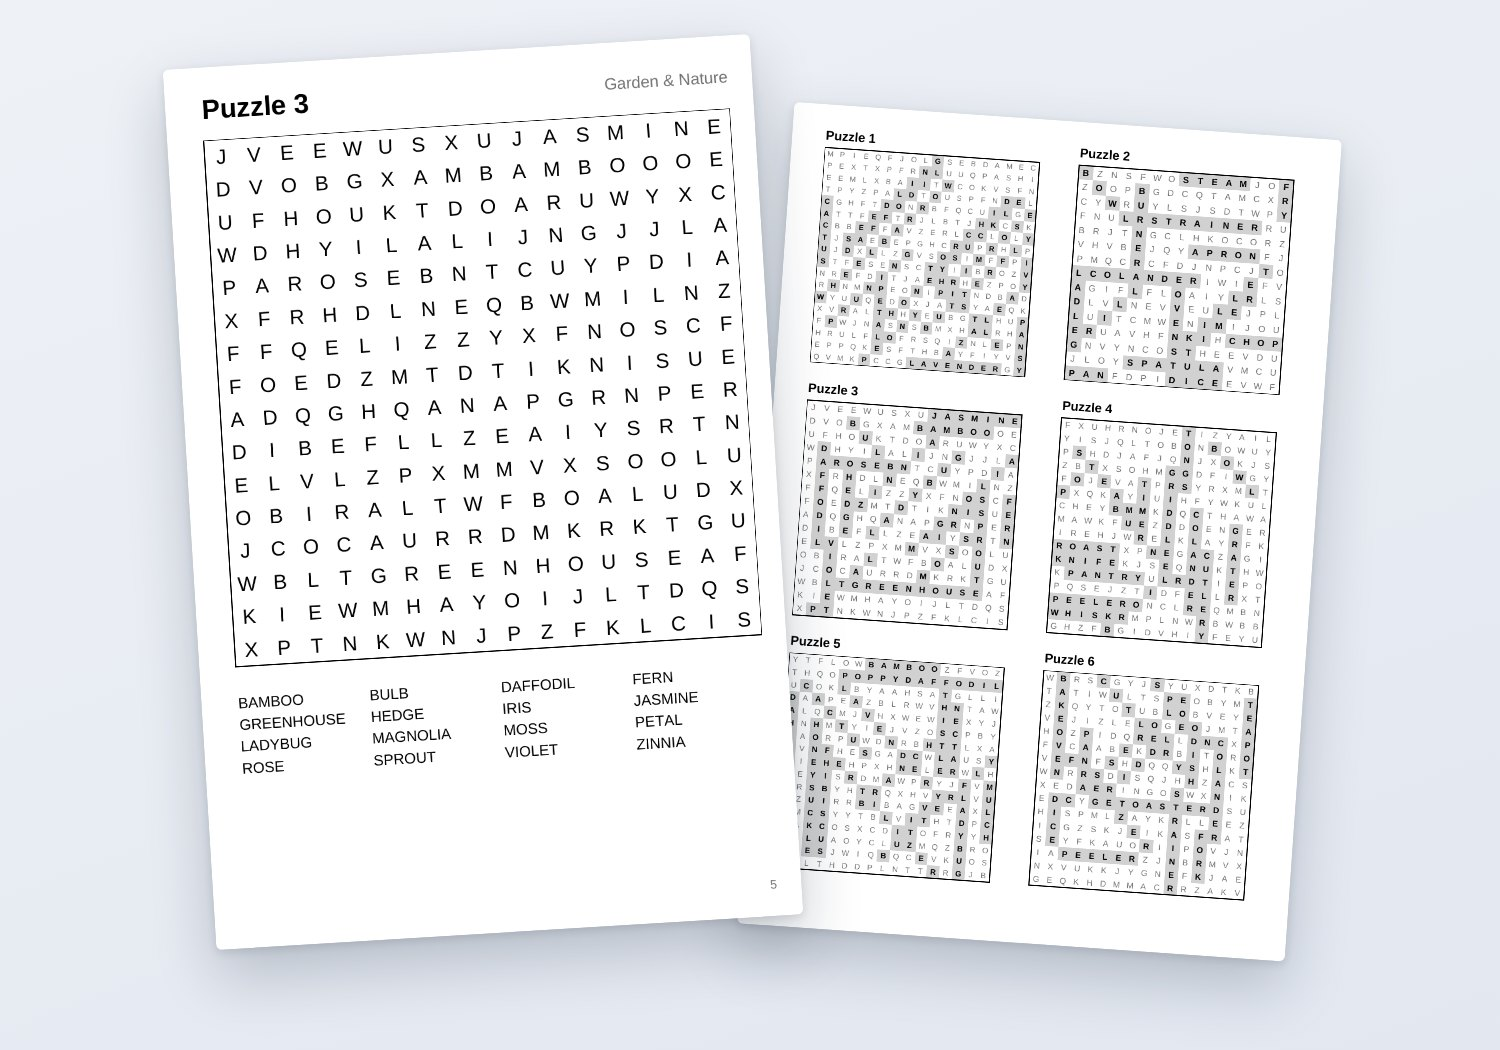
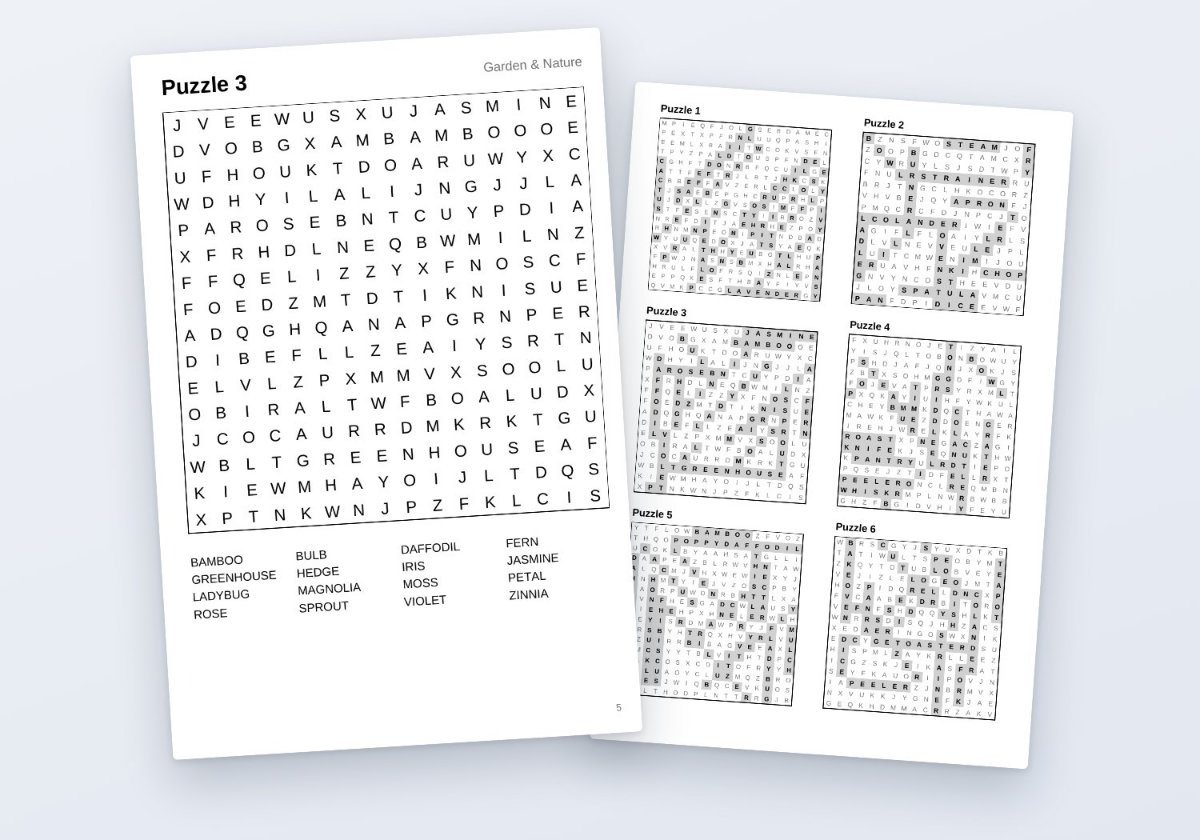
The first five seconds: the hero image was 90% of the page, and the phone first screen was all text
Nobody outside this building has ever run the product, so hardening it further
has no expected value. What matters is the first five seconds on Tuesday.

Measured it on a throttled phone against production, which test/perf.mjs had
probably never been pointed at: 252 KB transferred, of which /hero-book.jpg was
226 KB and 660 ms. Re-encoded at 1200px as WebP (Chromium's canvas, no new
dependency), JPEG kept as the <picture> fallback: 81 KB. Page is now 108 KB and
settles at 1160 ms instead of 1444.

The phone first screen held nothing but text: the header repeated the hero's
first sentence, the lede ran ten lines, the primary button was clipped by the
fold, and the only picture of a real printed page was a screen and a half down
behind eight lines of feature ticks. Strap hidden on phones, lede cut by 45%
with its spine claim moved into the tick list, third button demoted to the
sample links, and the tick list moved below the picture — which changes nothing
on a wide screen and puts proof at 603px on a phone.

test/perf.mjs was not a test: it printed numbers and exited zero. It now has
budgets (200 KB total, 120 KB per asset, 4s to first puzzle) and asserts the
headline, lede, both buttons and the price are whole above a 664px fold with
the book image starting above it.

Claude-Session: https://claude.ai/code/session_01GFKKS7ouagdgAcbLvrifEG

diff --git a/public/index.html b/public/index.html
@@ -52,6 +52,12 @@
        c…"), so rows stack below 420px where the squeeze actually happens. */
     .row { grid-template-columns: 1fr; }
     header .wide-only { display: none; }
+    /* On a phone the first screen is about 630px tall and the header was
+       spending a fifth of it repeating the hero's first sentence. The strap
+       stays in the HTML — it is the page's plain-English summary for a crawler
+       and for a wide screen — but a person holding a phone gets the headline
+       and the button instead. */
+    header p { display: none; }
     header { padding: 14px 16px; }
     .hero { padding: 24px 16px 20px; }
     main { padding: 16px; gap: 16px; }
@@ -112,8 +118,20 @@
 
   /* Hero */
   .hero { background: var(--card); border-bottom: 1px solid var(--line); padding: 40px 24px 32px; }
+  /* Three children — copy, shot, ticks — rather than the ticks living inside
+     the copy. On a wide screen that changes nothing visible (the ticks were
+     already a row under the copy; now they run the full width). On a phone,
+     where the grid collapses to one column, it puts the picture of a real
+     printed page directly under the buttons instead of below eight lines of
+     feature ticks — one flick from the top rather than a screen and a half. */
   .hero-inner { max-width: 1280px; margin: 0 auto; display: grid; grid-template-columns: 1.15fr 1fr; gap: 40px; align-items: center; }
-  @media (max-width: 860px) { .hero-inner { grid-template-columns: 1fr; gap: 24px; } }
+  .hero-copy { grid-column: 1; }
+  .hero-shot { grid-column: 2; }
+  .hero-inner .trust { grid-column: 1 / -1; margin: 0; }
+  @media (max-width: 860px) {
+    .hero-inner { grid-template-columns: 1fr; gap: 24px; }
+    .hero-copy, .hero-shot, .hero-inner .trust { grid-column: 1; }
+  }
   .hero h2 { margin: 0 0 12px; font-size: clamp(26px, 3.6vw, 40px); line-height: 1.15; letter-spacing: -0.02em; }
   .hero .lede { margin: 0 0 18px; font-size: 17px; color: var(--muted); max-width: 60ch; }
   .hero-cta { display: flex; gap: 12px; flex-wrap: wrap; align-items: center; }
@@ -167,30 +185,32 @@
 
 <section class="hero">
   <div class="hero-inner">
-    <div>
+    <div class="hero-copy">
       <h2>A finished KDP puzzle book, in about a minute.</h2>
-      <p class="lede">Pick word search, sudoku, mazes, criss-cross fill-ins or themed crosswords, choose a trim size, and Puzzle Press lays out the whole paperback interior — puzzles, solutions, page numbers — as one PDF that meets Amazon KDP's manuscript rules. Then it makes the matching cover, with the spine measured from the page count of the book it just built. No sign-up, nothing to install.</p>
+      <p class="lede">Pick word search, sudoku, mazes, criss-cross fill-ins or crosswords, and a trim size. Out comes the whole paperback — puzzles, solutions, page numbers and a matching cover — as PDFs that meet Amazon KDP's manuscript rules. No sign-up, nothing to install.</p>
       <div class="hero-cta">
         <a class="btn btn-primary" href="#tool">Make a book free</a>
         <a class="btn btn-ghost" href="samples/sample-6x9.pdf" target="_blank" rel="noopener">See a finished book (PDF)</a>
-        <a class="btn btn-ghost" href="samples/sample-cover-6x9.pdf" target="_blank" rel="noopener">…and its cover</a>
-        <span class="note">Also: <a href="samples/sample-sudoku-6x9.pdf" target="_blank" rel="noopener">sudoku sample</a> · <a href="samples/sample-maze-6x9.pdf" target="_blank" rel="noopener">maze sample</a> · <a href="samples/sample-crisscross-6x9.pdf" target="_blank" rel="noopener">fill-in sample</a> · <a href="samples/sample-crossword-6x9.pdf" target="_blank" rel="noopener">crossword sample</a></span>
+        <span class="note">More samples: <a href="samples/sample-cover-6x9.pdf" target="_blank" rel="noopener">its cover</a> · <a href="samples/sample-sudoku-6x9.pdf" target="_blank" rel="noopener">sudoku</a> · <a href="samples/sample-maze-6x9.pdf" target="_blank" rel="noopener">maze</a> · <a href="samples/sample-crisscross-6x9.pdf" target="_blank" rel="noopener">fill-in</a> · <a href="samples/sample-crossword-6x9.pdf" target="_blank" rel="noopener">crossword</a></span>
         <span class="note">Free: a full-length book, watermarked. $19 once removes the mark.</span>
       </div>
-      <ul class="trust">
+    </div>
+    <div class="hero-shot">
+      <picture>
+        <source srcset="hero-book.webp" type="image/webp">
+        <img src="hero-book.jpg" width="1200" height="840" alt="A page from a generated word search book beside its solutions page" loading="eager" fetchpriority="high" decoding="async">
+      </picture>
+    </div>
+    <ul class="trust">
         <li>Word search, sudoku, mazes, fill-ins &amp; crosswords</li>
         <li>32 word-search themes, or your own list</li>
-        <li>Interior <em>and</em> cover</li>
+        <li>Matching cover, spine sized to your page count</li>
         <li>Large print option</li>
         <li>KDP trim sizes &amp; gutter margins</li>
         <li>Fonts embedded</li>
         <li>Solutions included</li>
         <li>Your words stay in your browser</li>
       </ul>
-    </div>
-    <div class="hero-shot">
-      <img src="hero-book.jpg" width="1000" height="700" alt="A page from a generated word search book beside its solutions page" loading="eager">
-    </div>
   </div>
 </section>
 
